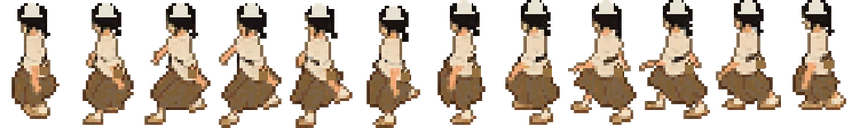
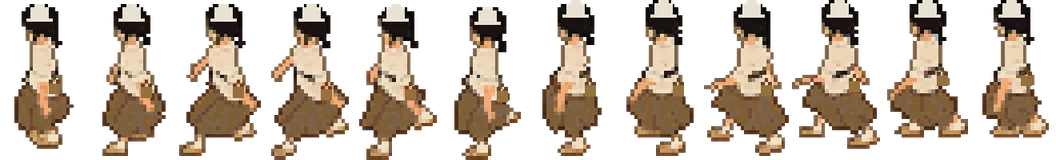
걷는 사람들 18명: 일꾼·양반·아이·선비·장옷 아낙·삿갓 길손·탁발승·나그네·포졸, 두 줄 깊이
Claude-Session: https://claude.ai/code/session_01HcSnounm3WaPYERfCeiCCD

diff --git a/index.html b/index.html
@@ -229,7 +229,7 @@ footer{display:flex;flex-wrap:wrap;justify-content:space-between;gap:12px;paddin
 .bd:hover img{transform:translateY(-10px) scale(1.04);filter:drop-shadow(0 14px 10px rgba(0,0,0,.45)) drop-shadow(0 0 18px rgba(255,200,110,.45))}
 .bd:hover figcaption{color:#E0B33A}
 @keyframes marq{to{transform:translateX(-50%)}}
-.marq-row{padding-bottom:calc(58px*var(--k))}
+.marq-row{padding-bottom:calc(70px*var(--k))}
 .bd figcaption{position:absolute;bottom:calc(100% + 4px);left:50%;transform:translate(-50%,6px);white-space:nowrap;opacity:0;pointer-events:none;
   background:rgba(30,26,21,.9);border:1px solid rgba(224,179,58,.5);border-radius:4px;padding:4px 10px;color:#E0B33A;transition:opacity .3s,transform .3s var(--ease)}
 .bd:hover figcaption{opacity:1;transform:translate(-50%,0)}
@@ -238,8 +238,9 @@ footer{display:flex;flex-wrap:wrap;justify-content:space-between;gap:12px;paddin
 .bd.q::after{content:"?";position:absolute;left:50%;top:42%;transform:translate(-50%,-50%);font-family:'Gowun Batang',serif;font-weight:700;
   font-size:calc(64px*var(--k));color:#E0B33A;text-shadow:0 0 18px rgba(224,179,58,.6);animation:qpulse 2.4s ease-in-out infinite}
 @keyframes qpulse{50%{opacity:.45;transform:translate(-50%,-56%)}}
-.walkers{position:absolute;left:0;right:0;bottom:calc(6px*var(--k));height:calc(64px*var(--k));z-index:1;pointer-events:none}
-.wk{position:absolute;bottom:0;left:0;width:calc(var(--w)*var(--k));height:calc(64px*var(--k));background-repeat:no-repeat;
+.wk.b{bottom:calc(14px*var(--k));z-index:1;filter:drop-shadow(0 4px 3px rgba(0,0,0,.5)) brightness(.88)}
+.walkers{position:absolute;left:0;right:0;bottom:calc(4px*var(--k));height:calc(96px*var(--k));z-index:1;pointer-events:none}
+.wk{position:absolute;bottom:0;left:0;z-index:2;width:calc(var(--w)*var(--k));height:calc(var(--hh)*var(--k));background-repeat:no-repeat;
   background-size:calc(var(--w)*12*var(--k)) 100%;filter:drop-shadow(0 4px 3px rgba(0,0,0,.5));
   animation:wkstep .9s steps(12) infinite,wkgo var(--d) linear var(--dl) infinite}
 @keyframes wkstep{to{background-position:calc(var(--w)*-12*var(--k)) 0}}
@@ -378,7 +379,7 @@ html,body{overflow-x:clip}
 </section>
 
 <div class="dc" aria-hidden="true"></div>
-<div class="marq" aria-label="조선 타이쿤의 건물과 일꾼들"><div class="marq-row"><figure class="bd"><img src="assets/b/00.webp" alt="초가집" style="--h:120px" width="153" height="120" loading="lazy" decoding="async"><figcaption>초가집</figcaption></figure><figure class="bd"><img src="assets/b/01.webp" alt="주막" style="--h:120px" width="169" height="120" loading="lazy" decoding="async"><figcaption>주막</figcaption></figure><figure class="bd"><img src="assets/b/02.webp" alt="벌목장" style="--h:115px" width="135" height="115" loading="lazy" decoding="async"><figcaption>벌목장</figcaption></figure><figure class="bd"><img src="assets/b/03.webp" alt="어장" style="--h:120px" width="145" height="120" loading="lazy" decoding="async"><figcaption>어장</figcaption></figure><figure class="bd"><img src="assets/b/04.webp" alt="막새 가마" style="--h:115px" width="155" height="115" loading="lazy" decoding="async"><figcaption>막새 가마</figcaption></figure><figure class="bd"><img src="assets/b/05.webp" alt="여관" style="--h:130px" width="152" height="130" loading="lazy" decoding="async"><figcaption>여관</figcaption></figure><figure class="bd"><img src="assets/b/06.webp" alt="실학당" style="--h:130px" width="139" height="130" loading="lazy" decoding="async"><figcaption>실학당</figcaption></figure><figure class="bd"><img src="assets/b/07.webp" alt="양반가" style="--h:130px" width="136" height="130" loading="lazy" decoding="async"><figcaption>양반가</figcaption></figure><figure class="bd"><img src="assets/b/08.webp" alt="정자" style="--h:125px" width="146" height="125" loading="lazy" decoding="async"><figcaption>정자</figcaption></figure><figure class="bd"><img src="assets/b/09.webp" alt="장승" style="--h:90px" width="64" height="90" loading="lazy" decoding="async"><figcaption>장승</figcaption></figure><figure class="bd"><img src="assets/b/10.webp" alt="교역소" style="--h:125px" width="155" height="125" loading="lazy" decoding="async"><figcaption>교역소</figcaption></figure><figure class="bd"><img src="assets/b/11.webp" alt="석탑" style="--h:110px" width="58" height="110" loading="lazy" decoding="async"><figcaption>석탑</figcaption></figure><figure class="bd q"><img src="assets/b/q.webp" alt="아직 비밀인 상징 건축" style="--h:165px" width="288" height="165" loading="lazy" decoding="async"><figcaption>?</figcaption></figure><figure class="bd" aria-hidden="true"><img src="assets/b/00.webp" alt="" style="--h:120px" width="153" height="120" loading="lazy" decoding="async"><figcaption>초가집</figcaption></figure><figure class="bd" aria-hidden="true"><img src="assets/b/01.webp" alt="" style="--h:120px" width="169" height="120" loading="lazy" decoding="async"><figcaption>주막</figcaption></figure><figure class="bd" aria-hidden="true"><img src="assets/b/02.webp" alt="" style="--h:115px" width="135" height="115" loading="lazy" decoding="async"><figcaption>벌목장</figcaption></figure><figure class="bd" aria-hidden="true"><img src="assets/b/03.webp" alt="" style="--h:120px" width="145" height="120" loading="lazy" decoding="async"><figcaption>어장</figcaption></figure><figure class="bd" aria-hidden="true"><img src="assets/b/04.webp" alt="" style="--h:115px" width="155" height="115" loading="lazy" decoding="async"><figcaption>막새 가마</figcaption></figure><figure class="bd" aria-hidden="true"><img src="assets/b/05.webp" alt="" style="--h:130px" width="152" height="130" loading="lazy" decoding="async"><figcaption>여관</figcaption></figure><figure class="bd" aria-hidden="true"><img src="assets/b/06.webp" alt="" style="--h:130px" width="139" height="130" loading="lazy" decoding="async"><figcaption>실학당</figcaption></figure><figure class="bd" aria-hidden="true"><img src="assets/b/07.webp" alt="" style="--h:130px" width="136" height="130" loading="lazy" decoding="async"><figcaption>양반가</figcaption></figure><figure class="bd" aria-hidden="true"><img src="assets/b/08.webp" alt="" style="--h:125px" width="146" height="125" loading="lazy" decoding="async"><figcaption>정자</figcaption></figure><figure class="bd" aria-hidden="true"><img src="assets/b/09.webp" alt="" style="--h:90px" width="64" height="90" loading="lazy" decoding="async"><figcaption>장승</figcaption></figure><figure class="bd" aria-hidden="true"><img src="assets/b/10.webp" alt="" style="--h:125px" width="155" height="125" loading="lazy" decoding="async"><figcaption>교역소</figcaption></figure><figure class="bd" aria-hidden="true"><img src="assets/b/11.webp" alt="" style="--h:110px" width="58" height="110" loading="lazy" decoding="async"><figcaption>석탑</figcaption></figure><figure class="bd q" aria-hidden="true"><img src="assets/b/q.webp" alt="" style="--h:165px" width="288" height="165" loading="lazy" decoding="async"><figcaption>?</figcaption></figure></div><div class="walkers" aria-hidden="true"><span class="wk" style="--w:35.0px;--d:25.9s;--dl:-0.3s;background-image:url(assets/w/farmer-m.webp)"></span><span class="wk" style="--w:35.5px;--d:29.8s;--dl:-3.5s;background-image:url(assets/w/gatherer-f.webp)"></span><span class="wk" style="--w:37.0px;--d:28.4s;--dl:-7.0s;background-image:url(assets/w/logger-m.webp)"></span><span class="wk" style="--w:35.5px;--d:22.7s;--dl:-8.6s;background-image:url(assets/w/fisher-f.webp)"></span><span class="wk" style="--w:35.0px;--d:22.4s;--dl:-10.8s;background-image:url(assets/w/smith-m.webp)"></span><span class="wk" style="--w:35.5px;--d:22.8s;--dl:-12.9s;background-image:url(assets/w/trader-f.webp)"></span><span class="wk" style="--w:35.0px;--d:27.1s;--dl:-19.7s;background-image:url(assets/w/hunter-m.webp)"></span><span class="wk" style="--w:36.0px;--d:23.5s;--dl:-18.7s;background-image:url(assets/w/monk-m.webp)"></span><span class="wk" style="--w:37.0px;--d:29.5s;--dl:-28.1s;background-image:url(assets/w/carpenter-f.webp)"></span></div></div>
+<div class="marq" aria-label="조선 타이쿤의 건물과 일꾼들"><div class="marq-row"><figure class="bd"><img src="assets/b/00.webp" alt="초가집" style="--h:120px" width="153" height="120" loading="lazy" decoding="async"><figcaption>초가집</figcaption></figure><figure class="bd"><img src="assets/b/01.webp" alt="주막" style="--h:120px" width="169" height="120" loading="lazy" decoding="async"><figcaption>주막</figcaption></figure><figure class="bd"><img src="assets/b/02.webp" alt="벌목장" style="--h:115px" width="135" height="115" loading="lazy" decoding="async"><figcaption>벌목장</figcaption></figure><figure class="bd"><img src="assets/b/03.webp" alt="어장" style="--h:120px" width="145" height="120" loading="lazy" decoding="async"><figcaption>어장</figcaption></figure><figure class="bd"><img src="assets/b/04.webp" alt="막새 가마" style="--h:115px" width="155" height="115" loading="lazy" decoding="async"><figcaption>막새 가마</figcaption></figure><figure class="bd"><img src="assets/b/05.webp" alt="여관" style="--h:130px" width="152" height="130" loading="lazy" decoding="async"><figcaption>여관</figcaption></figure><figure class="bd"><img src="assets/b/06.webp" alt="실학당" style="--h:130px" width="139" height="130" loading="lazy" decoding="async"><figcaption>실학당</figcaption></figure><figure class="bd"><img src="assets/b/07.webp" alt="양반가" style="--h:130px" width="136" height="130" loading="lazy" decoding="async"><figcaption>양반가</figcaption></figure><figure class="bd"><img src="assets/b/08.webp" alt="정자" style="--h:125px" width="146" height="125" loading="lazy" decoding="async"><figcaption>정자</figcaption></figure><figure class="bd"><img src="assets/b/09.webp" alt="장승" style="--h:90px" width="64" height="90" loading="lazy" decoding="async"><figcaption>장승</figcaption></figure><figure class="bd"><img src="assets/b/10.webp" alt="교역소" style="--h:125px" width="155" height="125" loading="lazy" decoding="async"><figcaption>교역소</figcaption></figure><figure class="bd"><img src="assets/b/11.webp" alt="석탑" style="--h:110px" width="58" height="110" loading="lazy" decoding="async"><figcaption>석탑</figcaption></figure><figure class="bd q"><img src="assets/b/q.webp" alt="아직 비밀인 상징 건축" style="--h:165px" width="288" height="165" loading="lazy" decoding="async"><figcaption>?</figcaption></figure><figure class="bd" aria-hidden="true"><img src="assets/b/00.webp" alt="" style="--h:120px" width="153" height="120" loading="lazy" decoding="async"><figcaption>초가집</figcaption></figure><figure class="bd" aria-hidden="true"><img src="assets/b/01.webp" alt="" style="--h:120px" width="169" height="120" loading="lazy" decoding="async"><figcaption>주막</figcaption></figure><figure class="bd" aria-hidden="true"><img src="assets/b/02.webp" alt="" style="--h:115px" width="135" height="115" loading="lazy" decoding="async"><figcaption>벌목장</figcaption></figure><figure class="bd" aria-hidden="true"><img src="assets/b/03.webp" alt="" style="--h:120px" width="145" height="120" loading="lazy" decoding="async"><figcaption>어장</figcaption></figure><figure class="bd" aria-hidden="true"><img src="assets/b/04.webp" alt="" style="--h:115px" width="155" height="115" loading="lazy" decoding="async"><figcaption>막새 가마</figcaption></figure><figure class="bd" aria-hidden="true"><img src="assets/b/05.webp" alt="" style="--h:130px" width="152" height="130" loading="lazy" decoding="async"><figcaption>여관</figcaption></figure><figure class="bd" aria-hidden="true"><img src="assets/b/06.webp" alt="" style="--h:130px" width="139" height="130" loading="lazy" decoding="async"><figcaption>실학당</figcaption></figure><figure class="bd" aria-hidden="true"><img src="assets/b/07.webp" alt="" style="--h:130px" width="136" height="130" loading="lazy" decoding="async"><figcaption>양반가</figcaption></figure><figure class="bd" aria-hidden="true"><img src="assets/b/08.webp" alt="" style="--h:125px" width="146" height="125" loading="lazy" decoding="async"><figcaption>정자</figcaption></figure><figure class="bd" aria-hidden="true"><img src="assets/b/09.webp" alt="" style="--h:90px" width="64" height="90" loading="lazy" decoding="async"><figcaption>장승</figcaption></figure><figure class="bd" aria-hidden="true"><img src="assets/b/10.webp" alt="" style="--h:125px" width="155" height="125" loading="lazy" decoding="async"><figcaption>교역소</figcaption></figure><figure class="bd" aria-hidden="true"><img src="assets/b/11.webp" alt="" style="--h:110px" width="58" height="110" loading="lazy" decoding="async"><figcaption>석탑</figcaption></figure><figure class="bd q" aria-hidden="true"><img src="assets/b/q.webp" alt="" style="--h:165px" width="288" height="165" loading="lazy" decoding="async"><figcaption>?</figcaption></figure></div><div class="walkers" aria-hidden="true"><span class="wk" style="--w:43.0px;--hh:78.0px;--d:32.3s;--dl:-1.7s;background-image:url(assets/w/farmer-m.webp)"></span><span class="wk b" style="--w:41.4px;--hh:70.2px;--d:38.9s;--dl:-3.6s;background-image:url(assets/w/yangban-male.webp)"></span><span class="wk" style="--w:37.0px;--hh:90.0px;--d:33.1s;--dl:-5.4s;background-image:url(assets/w/trav-anak-a.webp)"></span><span class="wk" style="--w:45.0px;--hh:78.0px;--d:28.6s;--dl:-6.3s;background-image:url(assets/w/logger-m.webp)"></span><span class="wk b" style="--w:35.1px;--hh:65.7px;--d:34.8s;--dl:-10.1s;background-image:url(assets/w/trav-seonbi-a.webp)"></span><span class="wk" style="--w:44.0px;--hh:80.0px;--d:27.3s;--dl:-8.5s;background-image:url(assets/w/gatherer-f.webp)"></span><span class="wk" style="--w:46.0px;--hh:78.0px;--d:27.3s;--dl:-11.5s;background-image:url(assets/w/yangban-female.webp)"></span><span class="wk b" style="--w:24.6px;--hh:54.1px;--d:44.6s;--dl:-17.5s;background-image:url(assets/w/yangban-male-child.webp)"></span><span class="wk" style="--w:44.0px;--hh:79.0px;--d:39.8s;--dl:-20.6s;background-image:url(assets/w/trav-gilson-a.webp)"></span><span class="wk" style="--w:44.0px;--hh:80.0px;--d:35.2s;--dl:-19.4s;background-image:url(assets/w/fisher-f.webp)"></span><span class="wk b" style="--w:39.6px;--hh:69.3px;--d:28.2s;--dl:-15.7s;background-image:url(assets/w/trav-monk.webp)"></span><span class="wk" style="--w:47.0px;--hh:80.0px;--d:33.4s;--dl:-20.6s;background-image:url(assets/w/traveler-female.webp)"></span><span class="wk" style="--w:39.0px;--hh:57.7px;--d:35.8s;--dl:-24.6s;background-image:url(assets/w/worker-female-child.webp)"></span><span class="wk b" style="--w:35.1px;--hh:65.7px;--d:26.4s;--dl:-20.5s;background-image:url(assets/w/trav-seonbi-c.webp)"></span><span class="wk" style="--w:44.0px;--hh:80.0px;--d:32.2s;--dl:-27.5s;background-image:url(assets/w/trader-f.webp)"></span><span class="wk" style="--w:43.0px;--hh:78.0px;--d:33.3s;--dl:-29.6s;background-image:url(assets/w/police.webp)"></span><span class="wk b" style="--w:33.3px;--hh:81.0px;--d:33.0s;--dl:-31.3s;background-image:url(assets/w/trav-anak-c.webp)"></span><span class="wk" style="--w:43.0px;--hh:78.0px;--d:32.4s;--dl:-31.4s;background-image:url(assets/w/smith-m.webp)"></span></div></div>
 <div class="dc rev" aria-hidden="true"></div>
 
 <section class="wrap features">
